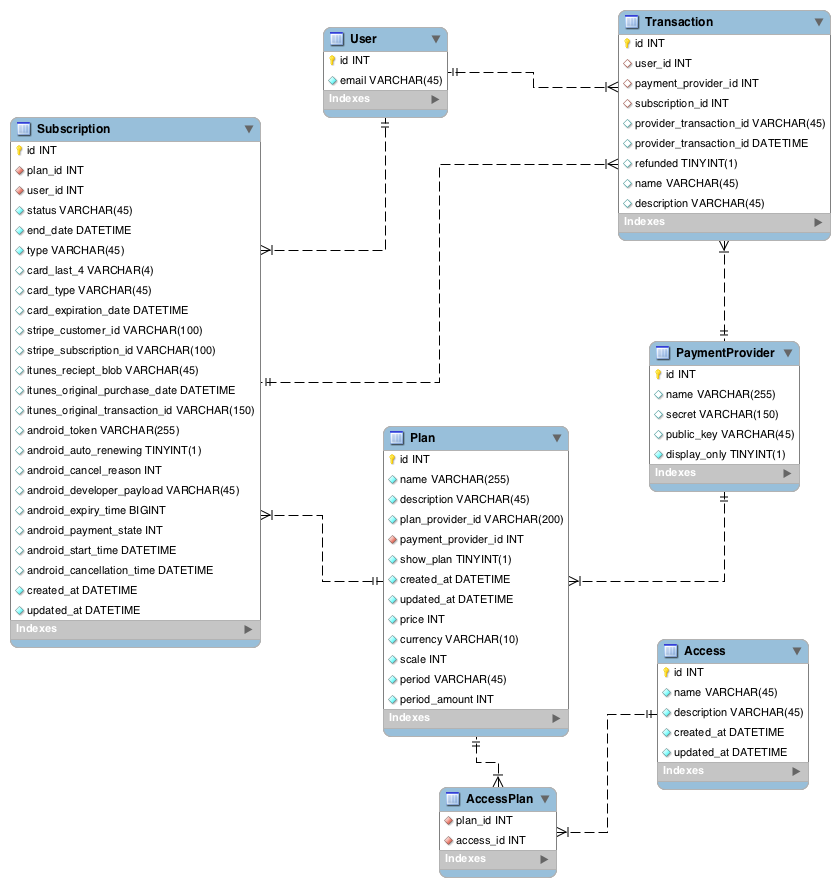
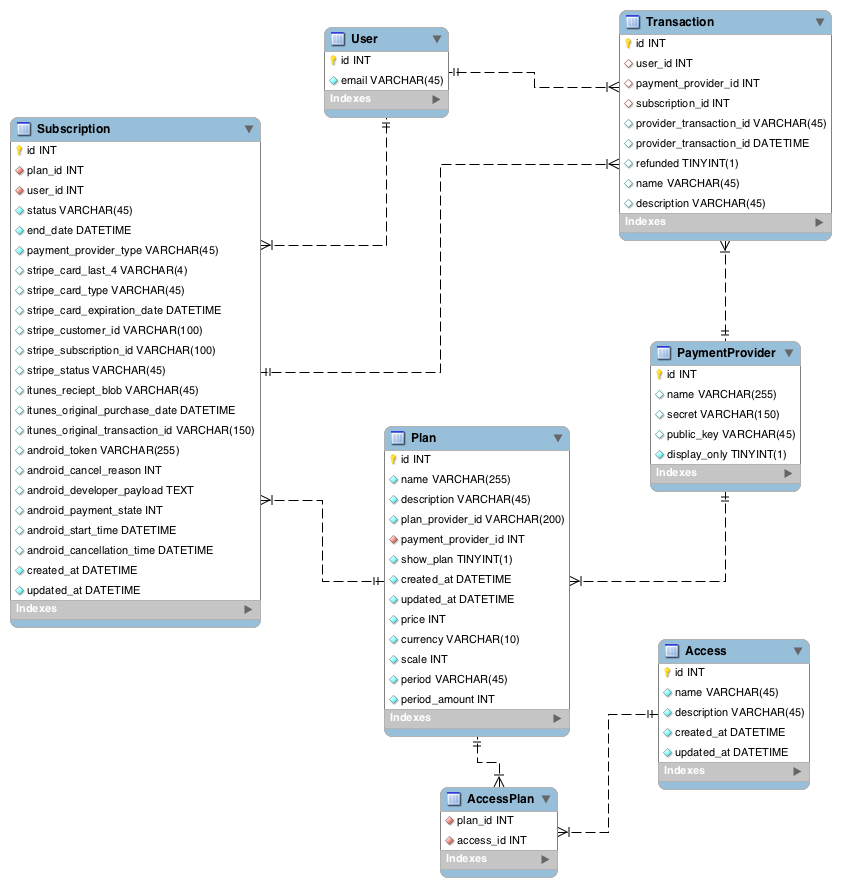
updated schema

diff --git a/README.md b/README.md
@@ -8,7 +8,8 @@
 - That we want a system that can use multiple payment providers, stripe, amazon, etc.
 - That the payment provider will handle subscription recurring billing.
 - That customer's will only be able to change plans within a payment provider.
-
+- That the customer will only be able to pay with currencies backed by a government, aka no bitcoin
+- That doctrine single inheritance table are better then the parent child tables because of less joins.
 
 ## Definitions
 
@@ -65,16 +66,19 @@ As a < type of user >, I want < some goal > so that < some reason >
 - Stripe
     - stripe_customer_id: A string representing the customer's account in stripe.
     - stripe_subscription_id: A string representing the id of the stripe subscription.
+    - stripe_status: Represents the stripe status of a subscription.
+    - stripe_card_type: MasterCard, Visa, Discover, etc
+    - stripe_card_expiration_date: When the card will expire.
+    - stripe_card_last_4: The last 4 digits of the credit card.
+    - stripe_card_expiration_date: The credit card expiration date.
 - iTunes
     - itunes_reciept_blob: The giant encoded receipt that stores all the transactions for a user.
     - itunes_original_purchase_date: The date the subscription was first purchased
     - itunes_original_transaction_id: The original transaction id of the subscription.  Compare this stripe subscription id.  This transaction id will be attached to all recurring purchases.
 - Android
     - android_token: The token sent by the app to verify the receipt.  Used in all transaction calls to get info on the subscription.
-    - android_auto_renewing: True means the subscription will auto renew.
     - android_cancel_reason: A number representing why the user cancelled
     - android_developer_payload: A developer-specified string that contains supplemental information about an order.	
-    - android_expiry_time: Time at which the subscription will expire
     - android_payment_state: The payment state of the subscription:
         - Payment pending
         - Payment received
